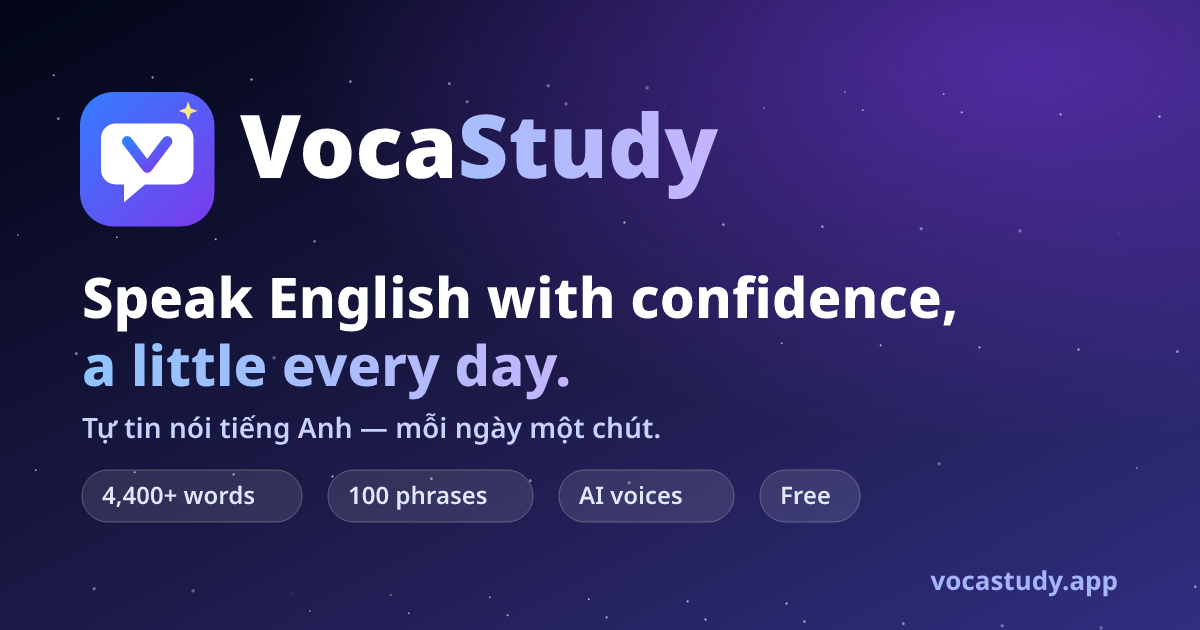
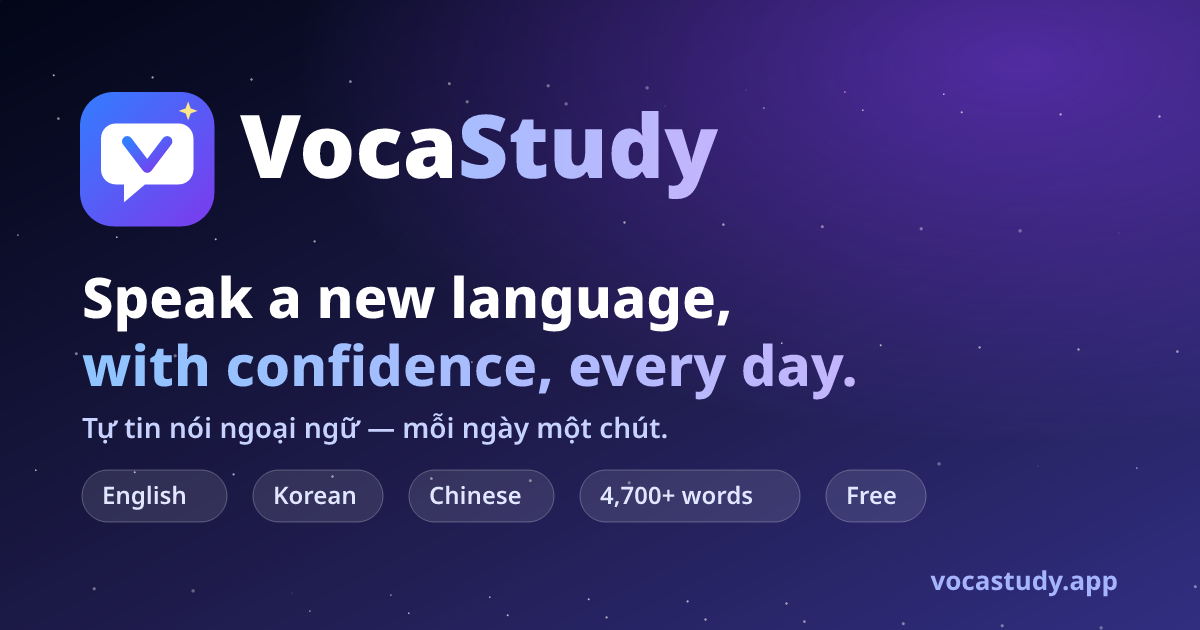
feat(trang chủ): tiêu đề theo hướng nhiều ngôn ngữ — "Tự tin nói ngoại ngữ, mỗi ngày một chút"
- Hero, tiêu đề tab, <title>, mô tả Google, thẻ og, tên app khi cài và ảnh
  xem trước link (og-image.png?v=2) không còn chỉ nói tiếng Anh.
- Dải số liệu: 3 ngôn ngữ · 4.700+ từ · 25 truyện · 0đ, tính lại từ
  public/data trong landingClaims.test.ts.
- Link "Chọn ngôn ngữ bạn muốn học" trỏ tới #languages; hỏi đáp "bắt đầu từ
  con số 0" và phần "Dành cho người Việt" nói cả tiếng Hàn, tiếng Trung.

Changed region(s): [[0.0617, 0.4222, 0.8017, 0.6333], [0.0925, 0.6635, 0.555, 0.8444], [0.4625, 0.7238, 0.7708, 0.8444]]

diff --git a/src/features/marketing/Landing.tsx b/src/features/marketing/Landing.tsx
@@ -18,16 +18,17 @@ import { useDocumentTitle } from '@/hooks/useDocumentTitle'
 import Testimonials from './Testimonials'
 import LanguagePicker from './LanguagePicker'
 
-// The public home page (docs/design/landing.md): what VocaStudy is, who it is
-// for, and one obvious way to start. Every number here is true of the product
+// The public home page (docs/design/landing.md): what VocaStudy is — one place
+// for Vietnamese speakers to learn many languages — who it is for, and one
+// obvious way to start. Every number here is true of the product
 // as shipped — no invented users, ratings or testimonials.
 
 export default function Landing() {
   const t = useT()
   useDocumentTitle(
     t(
-      'VocaStudy — Học từ vựng & mẫu câu tiếng Anh mỗi ngày',
-      'VocaStudy — Learn English words & everyday phrases, a little every day'
+      'VocaStudy — Học ngoại ngữ mỗi ngày: tiếng Anh, tiếng Hàn, tiếng Trung',
+      'VocaStudy — Learn languages every day: English, Korean, Chinese'
     )
   )
 
@@ -77,13 +78,13 @@ function Hero() {
             {t('Miễn phí · Dành cho người Việt', 'Free · Made for Vietnamese learners')}
           </span>
           <h1 className="mt-5 text-4xl font-extrabold leading-[1.1] tracking-tight sm:text-5xl lg:text-6xl">
-            {t('Tự tin nói tiếng Anh,', 'Speak English with confidence,')}{' '}
+            {t('Tự tin nói ngoại ngữ,', 'Speak a new language with confidence,')}{' '}
             <span className="text-aurora">{t('mỗi ngày một chút.', 'a little every day.')}</span>
           </h1>
           <p className="mt-5 max-w-xl text-lg text-slate-600 dark:text-slate-300">
             {t(
-              'Hơn 4.400 từ thông dụng và 100 mẫu câu dùng ngay — có giọng đọc AI chuẩn Mỹ, lặp lại ngắt quãng để nhớ lâu, và luyện phát âm dành riêng cho người Việt.',
-              '4,400+ everyday words and 100 ready-to-use phrases — with natural AI voices, spaced repetition that makes them stick, and pronunciation practice built for Vietnamese speakers.'
+              'Tiếng Anh, tiếng Hàn, tiếng Trung — và sẽ còn thêm ngôn ngữ mới. Cùng một cách học nhẹ nhàng: nghĩa và cách đọc giải thích bằng tiếng Việt, lặp lại ngắt quãng để nhớ lâu, mỗi ngày chỉ vài phút.',
+              'English, Korean, Chinese — with more languages to come. One gentle way to learn them all: meanings and pronunciation explained in Vietnamese, spaced repetition that makes words stick, a few minutes a day.'
             )}
           </p>
           <div className="mt-8 flex flex-wrap gap-3">
@@ -94,26 +95,15 @@ function Hero() {
               {t('Xem cách học', 'See how it works')}
             </Link>
           </div>
-          {/* The other packs, one tap away (hooks/useLangParam). */}
-          <p className="mt-4 text-sm text-slate-500 dark:text-slate-400">
-            {t('Hoặc học', 'Or learn')}{' '}
-            <Link
-              to="/home?lang=ko"
-              className="font-semibold text-brand-600 hover:underline dark:text-brand-300"
-            >
-              🇰🇷 {t('tiếng Hàn', 'Korean')}
-            </Link>
-            {' · '}
-            <Link
-              to="/home?lang=zh"
-              className="font-semibold text-brand-600 hover:underline dark:text-brand-300"
-            >
-              🇨🇳 {t('tiếng Trung', 'Chinese')}
-            </Link>{' '}
-            <span className="chip bg-amber-100 text-amber-700 dark:bg-amber-950 dark:text-amber-300">
-              beta
-            </span>
-          </p>
+          {/* Every pack, with its word count, is in LanguagePicker right below. */}
+          <Link
+            to="/#languages"
+            className="mt-4 inline-flex items-center gap-1.5 text-sm font-semibold text-brand-600 hover:underline dark:text-brand-300"
+          >
+            <Languages className="h-4 w-4" aria-hidden="true" />
+            {t('Chọn ngôn ngữ bạn muốn học', 'Choose the language you want to learn')}
+            <ChevronDown className="h-4 w-4" aria-hidden="true" />
+          </Link>
           <ul className="mt-6 flex flex-wrap gap-x-5 gap-y-2 text-sm text-slate-500 dark:text-slate-400">
             {[
               t('Không cần tài khoản để thử', 'No account needed to try'),
@@ -186,9 +176,9 @@ function HeroPreview() {
 function Stats() {
   const t = useT()
   const items = [
-    ['4.400+', '4,400+', t('từ thông dụng, A1 → B1', 'everyday words, A1 → B1')],
-    ['100', '100', t('mẫu câu giao tiếp', 'everyday phrases')],
-    ['2', '2', t('giọng đọc AI chuẩn Mỹ', 'natural AI voices')],
+    ['3', '3', t('ngôn ngữ, và sẽ còn thêm', 'languages, with more to come')],
+    ['4.700+', '4,700+', t('từ vựng có nghĩa tiếng Việt', 'words with Vietnamese meanings')],
+    ['25', '25', t('truyện ngắn chạm là ra nghĩa', 'short stories, tap for meanings')],
     ['0đ', '$0', t('học hoàn toàn miễn phí', 'completely free')],
   ] as const
   return (
@@ -373,8 +363,8 @@ function ForVietnamese() {
   const t = useT()
   const points = [
     t(
-      'Cách đọc gần đúng bằng chữ Việt cho mọi từ — "improve" đọc "im-PRUV".',
-      'A Vietnamese-letter respelling for every word — "improve" reads "im-PRUV".'
+      'Cách đọc gần đúng bằng chữ Việt — "improve" đọc "im-PRUV", "안녕하세요" đọc "an-nyơng-ha-xê-yô". Từ tiếng Trung có thêm âm Hán Việt.',
+      'A Vietnamese-letter respelling — "improve" reads "im-PRUV", "안녕하세요" reads "an-nyơng-ha-xê-yô". Chinese words also show their Sino-Vietnamese reading.'
     ),
     t(
       'Nghĩa và câu dịch bằng tiếng Việt tự nhiên.',
@@ -456,10 +446,13 @@ function Faq() {
       ),
     ],
     [
-      t('Mình mất gốc tiếng Anh, có học được không?', 'I am a complete beginner — is this for me?'),
       t(
-        'Được. App bắt đầu từ 1.000 từ cơ bản nhất, có cách đọc bằng chữ Việt và lời giải thích dễ hiểu.',
-        'Yes. It starts with the 1,000 most basic words, with Vietnamese respellings and plain explanations.'
+        'Mình bắt đầu từ con số 0, có học được không?',
+        'I am a complete beginner — is this for me?'
+      ),
+      t(
+        'Được. Tiếng Anh bắt đầu từ 1.000 từ cơ bản nhất, có cách đọc bằng chữ Việt. Tiếng Hàn có bài bảng chữ Hangul, tiếng Trung có bài pinyin và thanh điệu để bắt đầu. Mọi lời giải thích đều bằng tiếng Việt dễ hiểu.',
+        'Yes. English starts with the 1,000 most basic words, with Vietnamese respellings. Korean has a Hangul alphabet lesson and Chinese a pinyin & tones lesson to start with. Every explanation is in plain Vietnamese.'
       ),
     ],
     [

diff --git a/index.html b/index.html
@@ -16,9 +16,9 @@
     <meta name="apple-mobile-web-app-title" content="VocaStudy" />
     <meta
       name="description"
-      content="VocaStudy helps Vietnamese learners speak English with confidence: 4,400+ everyday words and 100 ready-to-use phrases with natural AI voices, spaced repetition, games and an AI tutor. Free."
+      content="VocaStudy is one place for Vietnamese speakers to learn languages — English, Korean and Chinese so far: 4,700+ words with Vietnamese meanings, spaced repetition, grammar, short stories, games and an AI tutor. Free."
     />
-    <title>VocaStudy · Speak English with confidence</title>
+    <title>VocaStudy · Learn languages every day: English, Korean, Chinese</title>
     <link rel="canonical" href="https://vocastudy.app/" />
     <!-- Link previews (Zalo, Messenger, Facebook, X). -->
     <meta property="og:type" content="website" />
@@ -28,19 +28,19 @@
     <meta property="og:url" content="https://vocastudy.app/" />
     <meta
       property="og:title"
-      content="VocaStudy · Speak English with confidence, a little every day"
+      content="VocaStudy · Speak a new language with confidence, a little every day"
     />
     <meta
       property="og:description"
-      content="4,400+ everyday English words and 100 ready-to-use phrases with natural AI voices and Vietnamese meanings: spaced repetition, games, speaking practice and an AI tutor."
+      content="English, Korean and Chinese, with more to come: 4,700+ words with Vietnamese meanings and readings, spaced repetition, grammar, short stories, games and an AI tutor. Free."
     />
     <!-- Drawn by scripts/make_brand_assets.mjs, like the icons. -->
-    <meta property="og:image" content="https://vocastudy.app/og-image.png" />
+    <meta property="og:image" content="https://vocastudy.app/og-image.png?v=2" />
     <meta property="og:image:width" content="1200" />
     <meta property="og:image:height" content="630" />
     <meta
       property="og:image:alt"
-      content="VocaStudy — Speak English with confidence, a little every day."
+      content="VocaStudy — Speak a new language with confidence, a little every day. English, Korean, Chinese."
     />
     <meta name="twitter:card" content="summary_large_image" />
     <link rel="icon" href="/favicon.svg" type="image/svg+xml" />

diff --git a/src/features/marketing/landingClaims.test.ts b/src/features/marketing/landingClaims.test.ts
@@ -20,6 +20,17 @@ const count = {
   zhTopics: json('public/data/topics/zh.json').topics.length,
   zhGrammar: json('public/data/grammar/zh.json').units.length,
   zhStories: json('public/data/reading/zh.json').stories.length,
+  languages: json('public/data/index.json').languages.length,
+  // Words across every pack, rounded down to the hundred ("4.700+").
+  allWords: (() => {
+    const packs = json('public/data/index.json').languages as { file: string }[]
+    const n = packs.reduce((sum, p) => sum + json(`public/data/${p.file}`).words.length, 0)
+    return Math.floor(n / 100) * 100
+  })(),
+  allStories: (json('public/data/index.json').languages as { code: string }[]).reduce(
+    (n, { code }) => n + json(`public/data/reading/${code}.json`).stories.length,
+    0
+  ),
   phrases: json('public/data/phrases/en.json').topics.reduce(
     (n: number, t: { phrases: unknown[] }) => n + t.phrases.length,
     0
@@ -46,6 +57,11 @@ describe('numbers on the landing page', () => {
       `${count.zhTopics} bộ chủ đề, ${count.zhGrammar} bài ngữ pháp và ${count.zhStories} truyện ngắn`,
       `${count.zhTopics} topic decks, ${count.zhGrammar} grammar lessons and ${count.zhStories} short stories`,
       `${count.koStories} short stories`,
+      // The stats strip under the hero. A new language changes the first one —
+      // update the hero sentence that names them too.
+      `['${count.languages}', '${count.languages}', t('ngôn ngữ`,
+      `['${count.allWords.toLocaleString('vi-VN')}+', '${count.allWords.toLocaleString('en-US')}+'`,
+      `['${count.allStories}', '${count.allStories}', t('truyện ngắn`,
       `${count.phrases} câu theo tình huống`,
       `${count.phrases} phrases for real situations`,
     ])

diff --git a/docs/design/landing.md b/docs/design/landing.md
@@ -29,11 +29,25 @@ một nhóm làm nghiêm túc, không phải một trang demo.
   6. "Dành cho người Việt".
   7. Hỏi đáp.
   8. Lời mời cuối trang.
-- Mọi con số và tính năng phải có thật trong app:
-  - 4.440 từ trong `data/en.json`;
-  - 100 mẫu câu;
-  - 2 giọng đọc (aria, guy).
-  - Không có lời chứng thực, logo báo chí hay số người dùng bịa ra.
+- Mọi con số và tính năng phải có thật trong app. Không có lời chứng thực, logo báo chí hay
+  số người dùng bịa ra.
+  - Dải số liệu dưới hero (từ 17/10/2026): số ngôn ngữ, tổng số từ của mọi gói (làm tròn
+    xuống hàng trăm, "4.700+") và tổng số truyện. `landingClaims.test.ts` tính lại cả ba từ
+    `public/data`.
+  - Trước đó dải này là 4.440 từ tiếng Anh, 100 mẫu câu và 2 giọng đọc. Các số này giờ chỉ
+    nằm trong phần tính năng.
+- **Tiêu đề theo hướng nhiều ngôn ngữ (17/10/2026).** User: "đổi luôn tiêu đề trang chủ
+  sang hướng nhiều ngôn ngữ".
+  - Hero: "Tự tin nói ngoại ngữ, mỗi ngày một chút." Câu dưới nêu tên các ngôn ngữ đang
+    có, kèm "và sẽ còn thêm".
+  - Dòng "Hoặc học tiếng Hàn · tiếng Trung" đổi thành link "Chọn ngôn ngữ bạn muốn học",
+    trỏ tới `#languages`.
+  - Tiêu đề tab, `<title>`, mô tả cho Google, thẻ og, tên app khi cài (manifest) và ảnh xem
+    trước link đều đổi theo. `og:locale` vẫn là `en_US`, vì giao diện mặc định là tiếng
+    Anh.
+  - Câu hỏi đáp "mất gốc tiếng Anh" thành "bắt đầu từ con số 0". Câu trả lời nói cả ba
+    ngôn ngữ.
+  - Phần "Dành cho người Việt" thêm ví dụ cách đọc tiếng Hàn và âm Hán Việt.
 - Trang học chuyển từ `/` sang `/home`.
   - Ai đã dùng app trên máy này (đã mở app, đã đăng nhập hoặc đã có tiến độ) mà gõ thẳng
     `vocastudy.app` thì được đưa vào `/home`.

diff --git a/README.md b/README.md
@@ -2,7 +2,7 @@
 
 🌐 **[vocastudy.app](https://vocastudy.app)**
 
-Website học và ôn **từ vựng đa ngôn ngữ**, gồm **1000 từ tiếng Anh thông dụng nhất** (chuẩn Oxford & Cambridge) làm lõi, cộng **phần mở rộng bậc B1** (tổng hơn 2000 từ), dành cho **người Việt học tiếng Anh**.
+Nơi **người Việt học nhiều ngoại ngữ**: hiện có **tiếng Anh** (4.440 từ từ cơ bản đến B1, mẫu câu, phát âm), **tiếng Hàn** và **tiếng Trung** (beta). Mọi ngôn ngữ dùng chung một cách học (lặp lại ngắt quãng, chủ đề, ngữ pháp, truyện ngắn, nghe – chép), giải thích bằng tiếng Việt.
 
 Phần học chạy **hoàn toàn phía trình duyệt**. Có **service worker** nên sau lần tải đầu, từ vựng và file phát âm đã nghe qua vẫn dùng được **khi mất mạng**; phần vỏ ứng dụng luôn ưu tiên tải bản mới nên không bao giờ bị kẹt ở bản cũ. Đăng nhập là **tuỳ chọn**: chưa đăng nhập thì tiến độ lưu ở `localStorage`; đăng nhập thì đồng bộ qua **Supabase** giữa các thiết bị và mở khoá **trợ lý AI**.
 

diff --git a/docs/design/brand.md b/docs/design/brand.md
@@ -15,9 +15,12 @@ không giống một sản phẩm thật."
   favicon, icon cài đặt, ảnh xem trước link.
 - Ảnh xem trước link (1200×630) gồm:
   - bầu trời đêm;
-  - logo và lời hứa "Speak English with confidence, a little every day.", kèm một dòng
-    tiếng Việt;
-  - 4 nhãn số liệu thật.
+  - logo và lời hứa "Speak a new language, with confidence, every day.", kèm dòng tiếng
+    Việt "Tự tin nói ngoại ngữ — mỗi ngày một chút." (đổi ngày 17/10/2026; trước đó là
+    "Speak English with confidence");
+  - các nhãn English · Korean · Chinese · 4,700+ words · Free.
+  - `index.html` trỏ tới `og-image.png?v=2`. Mỗi lần vẽ lại ảnh thì tăng số `v`, nếu
+    không Zalo/Facebook sẽ giữ ảnh cũ trong bộ nhớ đệm.
 
 **Dev**
 
